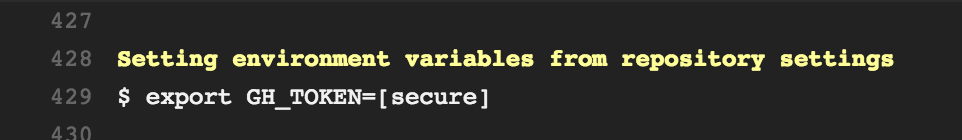
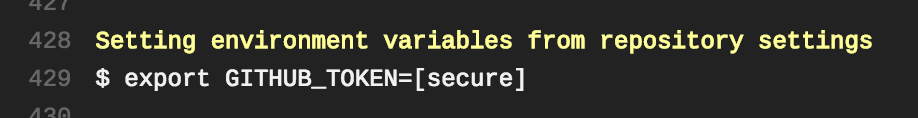
update github pages docs

diff --git a/source/_docs/github-pages.md b/source/_docs/github-pages.md
@@ -24,12 +24,12 @@ On Github go to [Settings](https://github.com/settings/profile) → [Developer S
 
 Visit `https://travis-ci.org/<github-profile>/<repository-name>` and **Activate repository**. Select **More options** → **Settings** and under **Environment variables** add new one:
 
-- Name: **GH_TOKEN**
+- Name: **GITHUB_TOKEN**
 - Value: generated token
 
 You don't have to be afraid of exposing the token to the public - it's securely hidden from the logs unless you purposely set it otherwise.
 
-[![GH_TOKEN is hidden from the log](/data/travis-gh-token-log.png)](https://www.travis-ci.org/crazko/statie-web/builds/323202354#L429)
+[![GITHUB_TOKEN is hidden from the log](/data/travis-gh-token-log.png)](https://www.travis-ci.org/crazko/statie-web/builds/323202354#L429)
 
 ## Configure Travis
 
@@ -40,10 +40,6 @@ language: php
 
 php: 7.1
 
-branches:
-    only:
-        - master
-
 install:
     - composer install
 
@@ -53,7 +49,7 @@ script:
 deploy:
     provider: pages
     skip_cleanup: true
-    github_token: $GH_TOKEN
+    github_token: $GITHUB_TOKEN
     local_dir: output
     on:
         branch: master
@@ -63,7 +59,7 @@ Such configuration will install all dependencies and generate output on every co
 
 You can read more about [building pull requests](https://docs.travis-ci.com/user/pull-requests/) or deploying to [Github Pages](https://docs.travis-ci.com/user/deployment/pages/) in the official documentation.
 
-Notice the usage of the variable `$GH_TOKEN` we just created - this adds Travis rights to make changes. Now the Travis is able to push to your Github repository for you!
+Notice the usage of the variable `$GITHUB_TOKEN` we just created - this adds Travis rights to make changes. Now the Travis is able to push to your Github repository for you!
 
 ---
 
